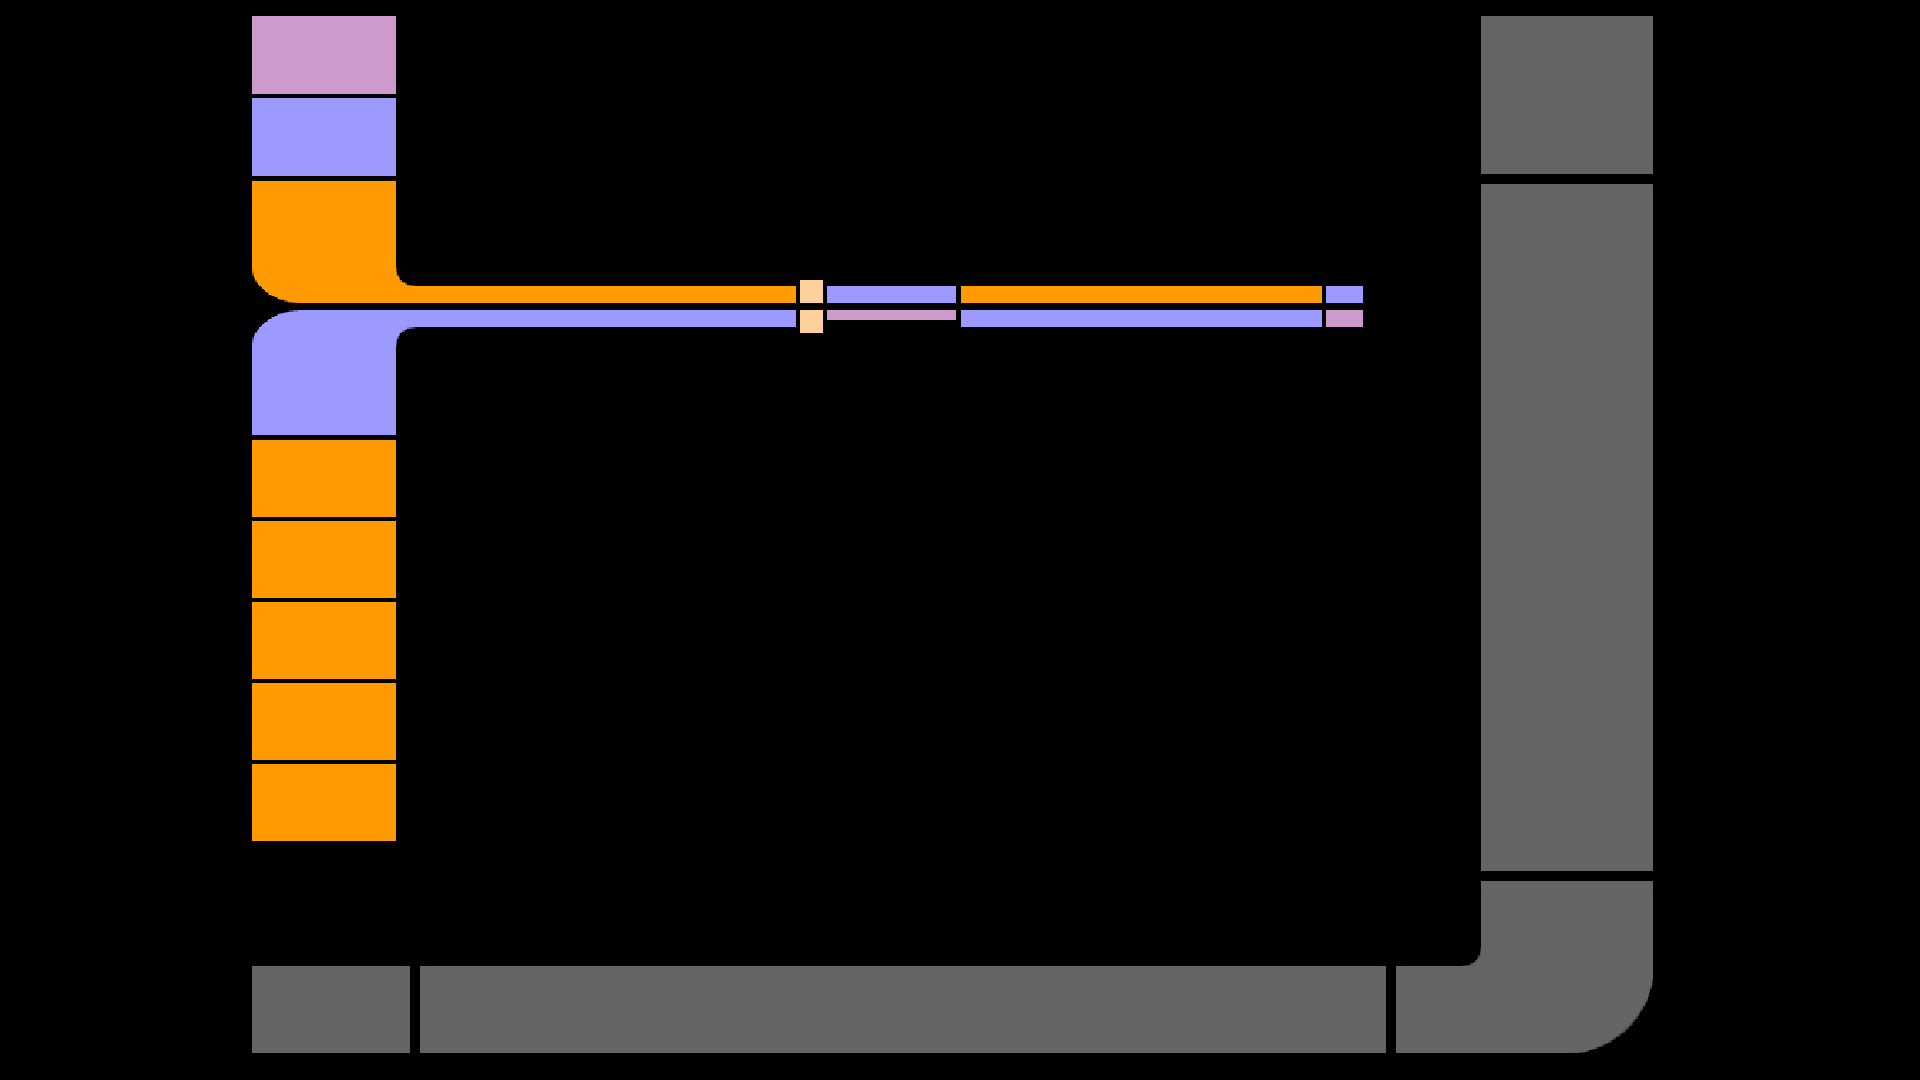
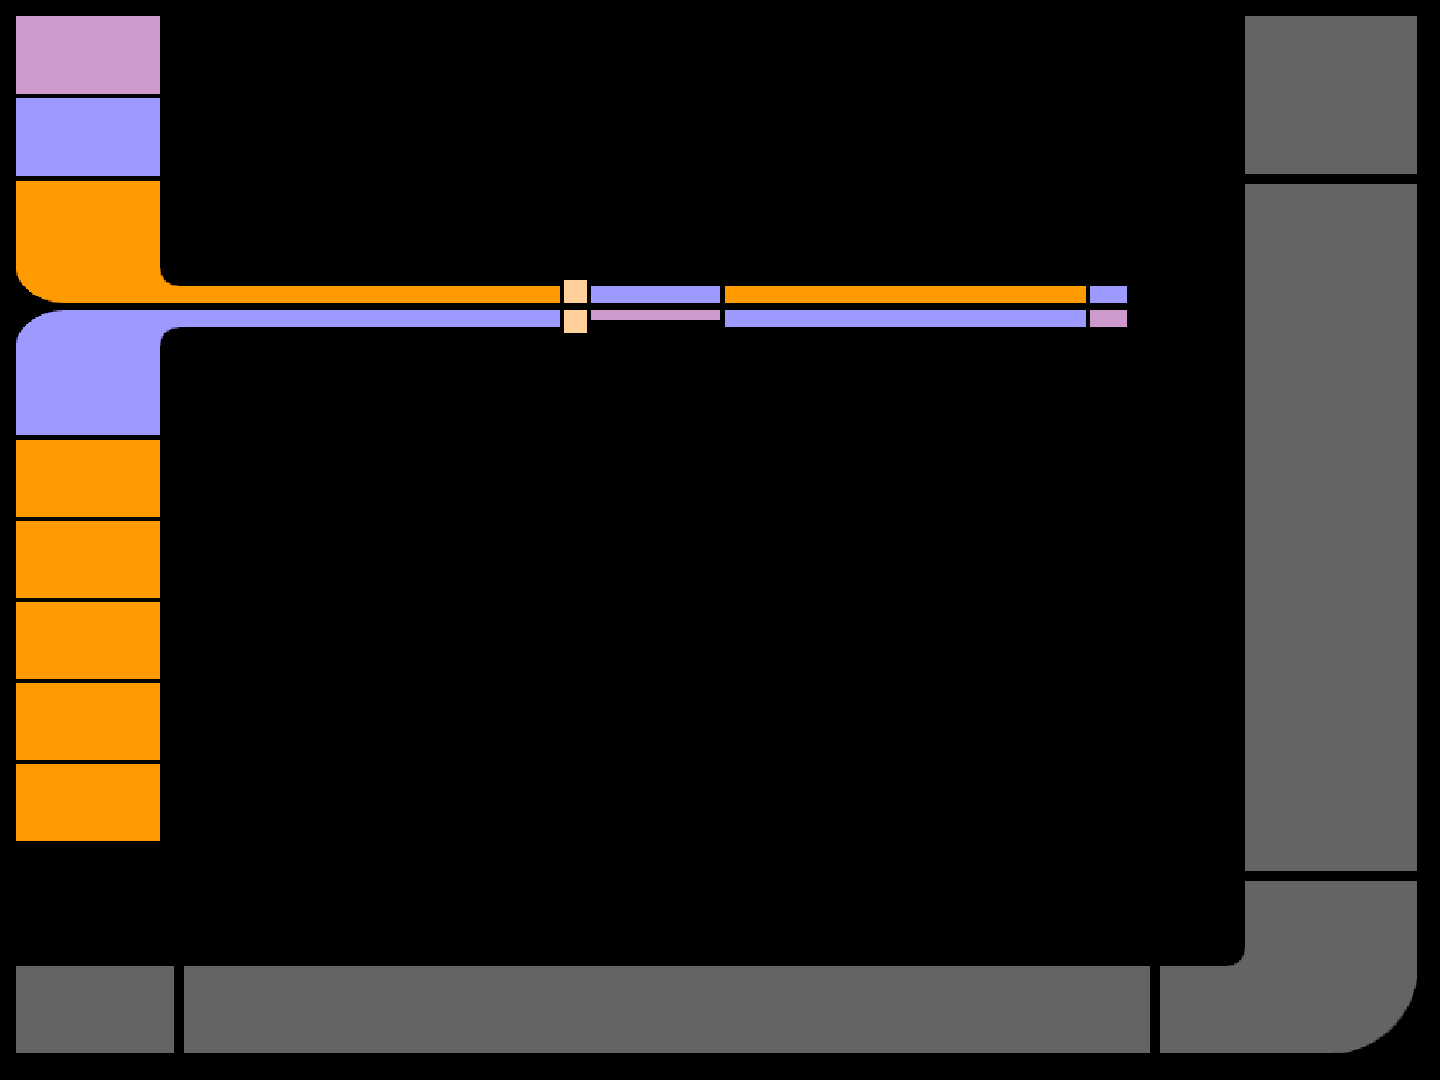
added screen resize logic (untested)

diff --git a/PyLCARSClock.py b/PyLCARSClock.py
@@ -4,6 +4,9 @@ from tkinter import font
 import time
 import calendar
 from datetime import datetime
+import os, sys
+#import PIL
+from PIL import Image
 
 def quit(*args):
 	root.destroy()
@@ -22,7 +25,22 @@ def upd_cal():
 	txtWD.set(dt_cur.strftime("%A"))
 	txtD.set(dt_cur.strftime("%m/%d"))
 
+def img_mult(sw, sh):
+    h = sh/1080
+    ofs = 0
+    if sh*16/9 > sw:
+        ofs = sh*16/9-sw
+    r = (h, ofs)
+    return r
+
+    
+
 root = Tk()
+abspath = os.path.abspath(__file__)
+dname = os.path.dirname(abspath)
+os.chdir(dname)
+screen_width = root.winfo_screenwidth()
+screen_height = root.winfo_screenheight()
 root.attributes("-fullscreen", True)
 root.configure(background='black')
 root.bind("<Escape>", quit)
@@ -30,12 +48,29 @@ root.bind("x", quit)
 root.after(1000, show_time)
 root.after(1000, upd_cal)
 root.config(cursor="none")
-
-bg = PhotoImage(file = "LCARS_UI.png") 
+mlt, ofs = img_mult(screen_width, screen_height)
+app_mlt = False
+if mlt == 1 and ofs <= 480:
+    bg = PhotoImage(file = "LCARS_UI.png") 
+else:
+    app_mlt = True
+if ofs > 480:
+    mlt = max(mlt, screen_width/1440)
+    app_mlt = True
+if app_mlt:
+    if os.path.isfile("LCARS_UI-"+str(mlt)[0:16]+".png"):
+        bg = PhotoImage(file = "LCARS_UI-"+str(mlt)[0:16]+".png")
+    else:
+        im = Image.open("LCARS_UI.png")
+        im = im.resize(((1440*mlt), (1080*mlt)), Image.Resampling.LANCZOS)
+        im.save("LCARS_UI-"+str(mlt)[0:16]+".png","PNG")
+        bg = PhotoImage(file = "LCARS_UI-"+str(mlt)[0:16]+".png")
+    
 lcars_tan = '#F8CC99'
 lcars_orange = '#FF9A00'
 lcars_blue = '#9C9AFF'
 lcars_pink = "#CE9ACE"
+
 fnt = font.Font(family='LCARS', size=320, weight='normal')
 fnt2 = font.Font(family='LCARS', size=128, weight='normal')
 fnt3 = font.Font(family='LCARS_Mono', size=18, weight='normal')
@@ -53,7 +88,7 @@ txtWD = StringVar()
 txtD = StringVar()
 upd_cal()
 
-ui_lbl = ttk.Label(root, image=bg)
+ui_lbl = ttk.Label(root, image=bg, background="black")
 ui_lbl.place(relx=0.5, rely=0.5, anchor=CENTER)
 lbl = ttk.Label(root, textvariable=txt, font=fnt, foreground=lcars_tan, background="black")
 lbl.place(relx=0.41, rely=0.55, anchor=CENTER)
@@ -69,5 +104,6 @@ wd_lbl = ttk.Label(root, textvariable=txtWD, font=fnt5, foreground=lcars_orange,
 wd_lbl.place(relx=0.6, rely=0.055, anchor=E)
 d_lbl = ttk.Label(root, textvariable=txtD, font=fnt5, foreground=lcars_tan, background="black")
 d_lbl.place(relx=0.6, rely=0.18, anchor=E)
+
 
 root.mainloop()
